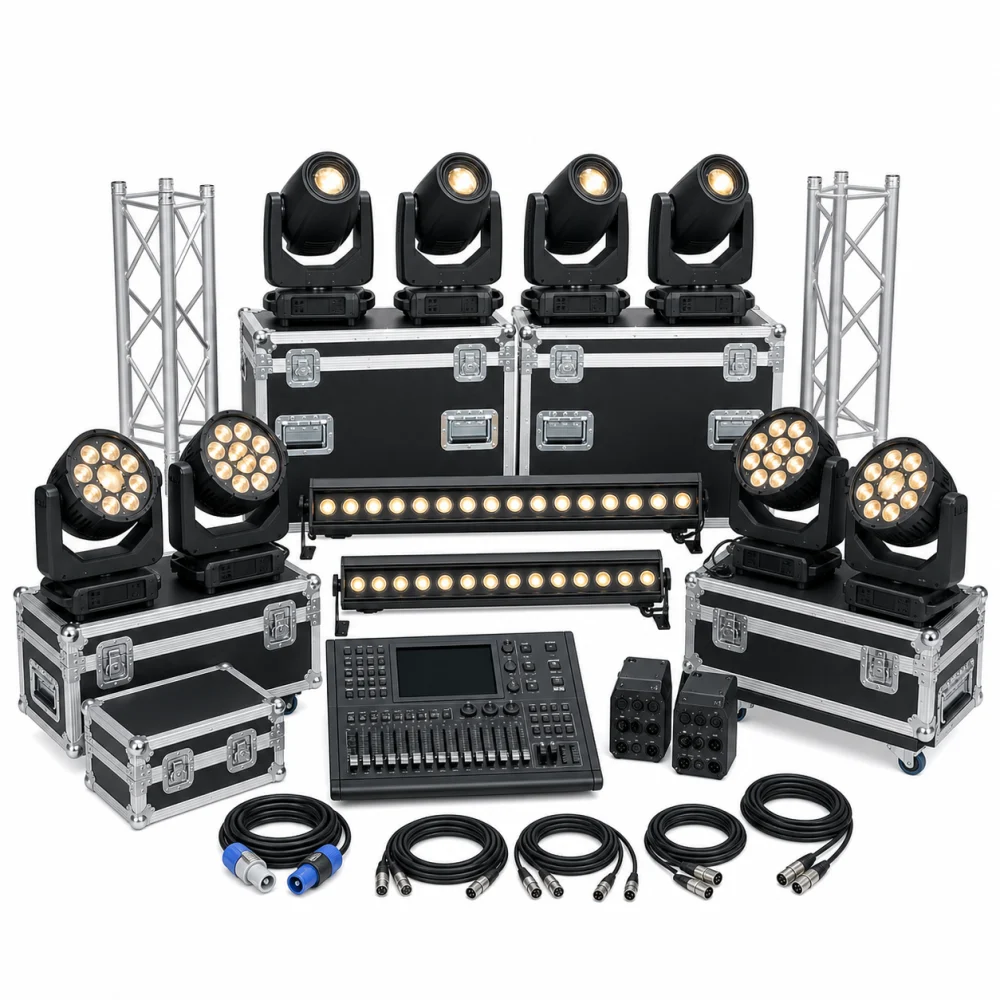
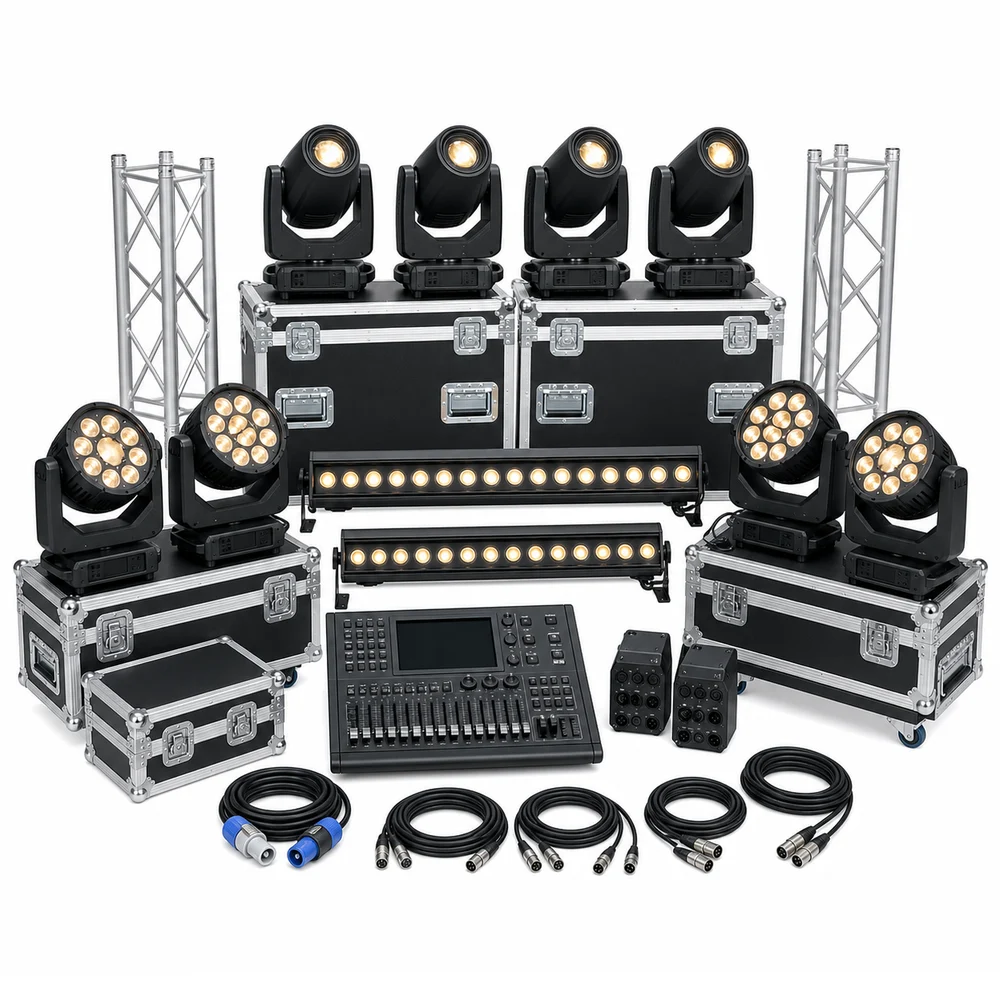
Center equipment card images

diff --git a/app/about/page.tsx b/app/about/page.tsx
@@ -119,7 +119,7 @@ export default function AboutPage() {
                     src={item.image}
                     alt={item.name}
                     loading="lazy"
-                    className="h-full w-full object-contain"
+                    className="block max-h-full max-w-full object-contain"
                   />
                 </div>
                 <div className="flex flex-col gap-2 p-7">